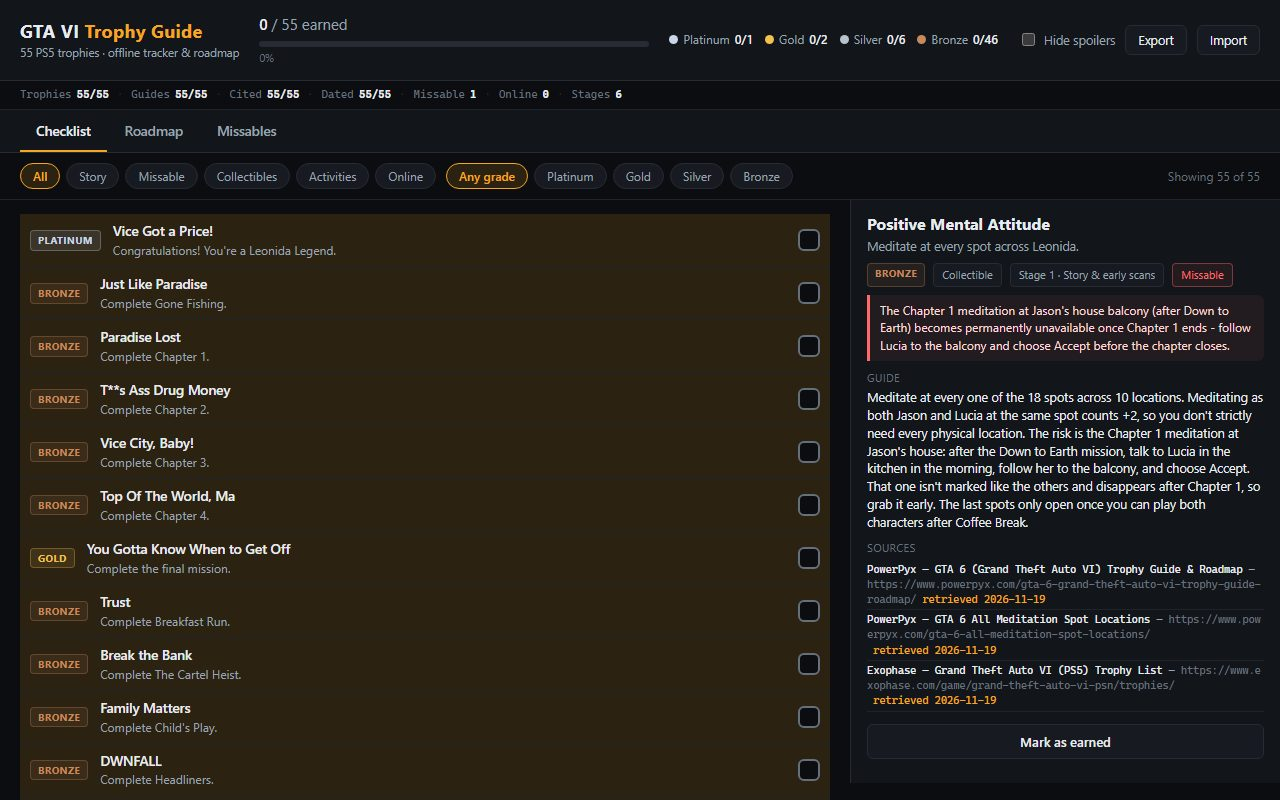
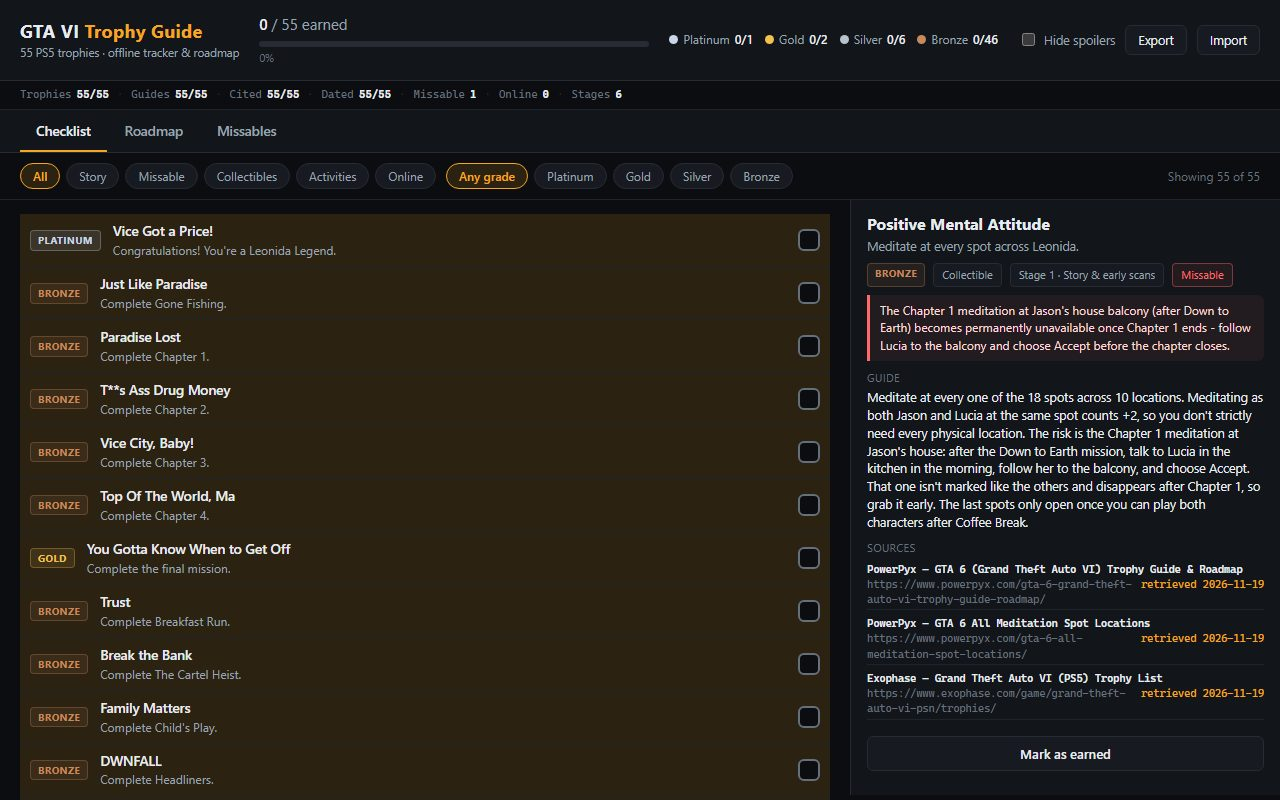
Keep each citation's date on its URL's line and re-shoot the cover

Changed region(s): [[0.6562, 0.7188, 1.0, 0.9062], [0.7812, 0.9062, 0.875, 0.9688]]

diff --git a/app/style.css b/app/style.css
@@ -463,17 +463,39 @@ body {
 }
 .detail-body .sources { list-style: none; margin: 0; padding: 0; }
 .detail-body .sources li {
+  display: block;
   font-family: var(--mono);
   font-size: 10.5px;
   line-height: 1.45;
   color: var(--text-dim);
   padding: 2px 0;
+  margin-bottom: 4px;
   border-bottom: 1px solid var(--border-soft);
-  word-break: break-all;
 }
-.detail-body .sources .s-title { color: var(--text); }
-.detail-body .sources .s-url { color: var(--text-faint); }
-.detail-body .sources .s-ret { color: var(--accent); margin-left: 6px; white-space: nowrap; }
+.detail-body .sources .s-title {
+  display: block;
+  font-weight: 600;
+  color: var(--text);
+  overflow-wrap: anywhere;
+}
+.detail-body .sources .s-meta {
+  display: flex;
+  align-items: baseline;
+  gap: 8px;
+  flex-wrap: wrap;
+  font-size: 10.5px;
+}
+.detail-body .sources .s-url {
+  flex: 1 1 0;
+  min-width: 0;
+  overflow-wrap: anywhere;
+  color: var(--text-faint);
+}
+.detail-body .sources .s-ret {
+  flex: 0 0 auto;
+  white-space: nowrap;
+  color: var(--accent);
+}
 
 .detail-tick {
   margin-top: 12px;

diff --git a/app/app.js b/app/app.js
@@ -276,9 +276,9 @@
       sources =
         '<div class="guide-head">Sources</div><ul class="sources">' +
         t.sources.map(function (s) {
-          return '<li><span class="s-title">' + esc(s.title) + "</span> — " +
-            '<span class="s-url">' + esc(s.url) + "</span>" +
-            '<span class="s-ret">retrieved ' + esc(s.retrieved || "") + "</span></li>";
+          return '<li><span class="s-title">' + esc(s.title) + "</span>" +
+            '<span class="s-meta"><span class="s-url">' + esc(s.url) + "</span>" +
+            '<span class="s-ret">retrieved ' + esc(s.retrieved || "") + "</span></span></li>";
         }).join("") +
         "</ul>";
     }
